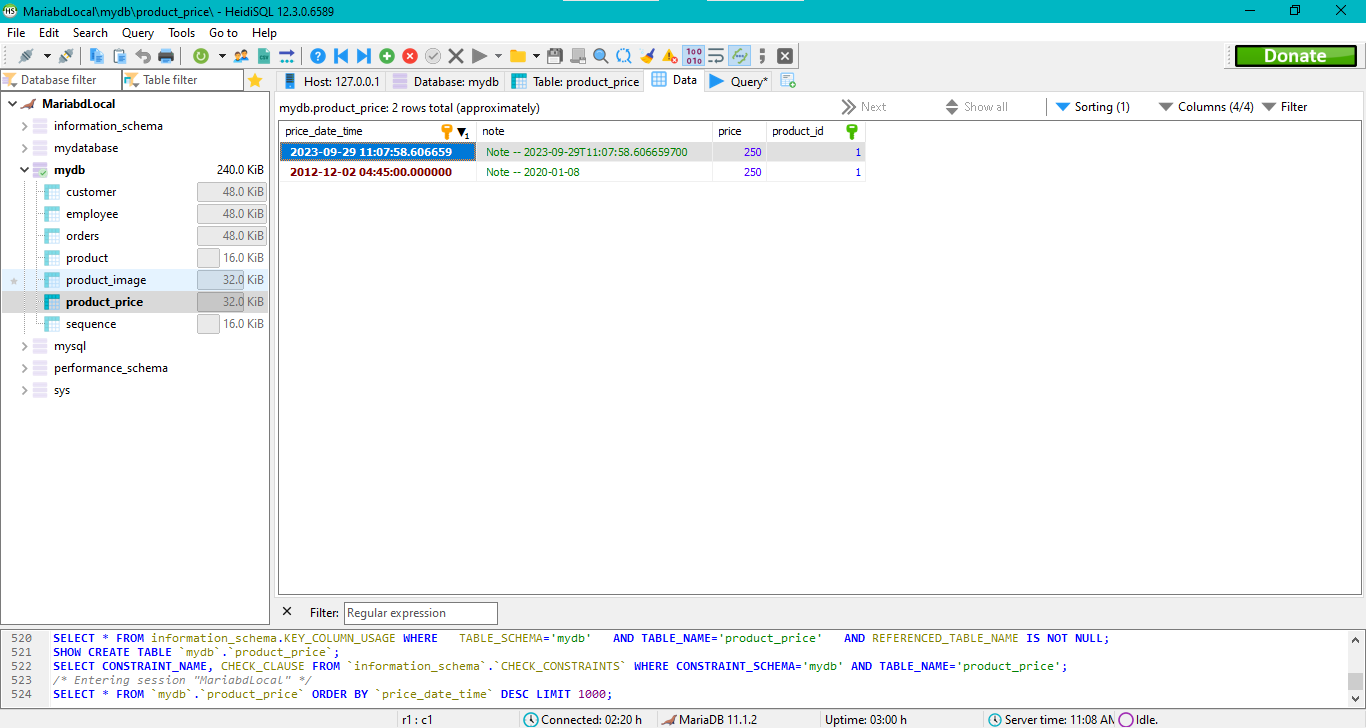
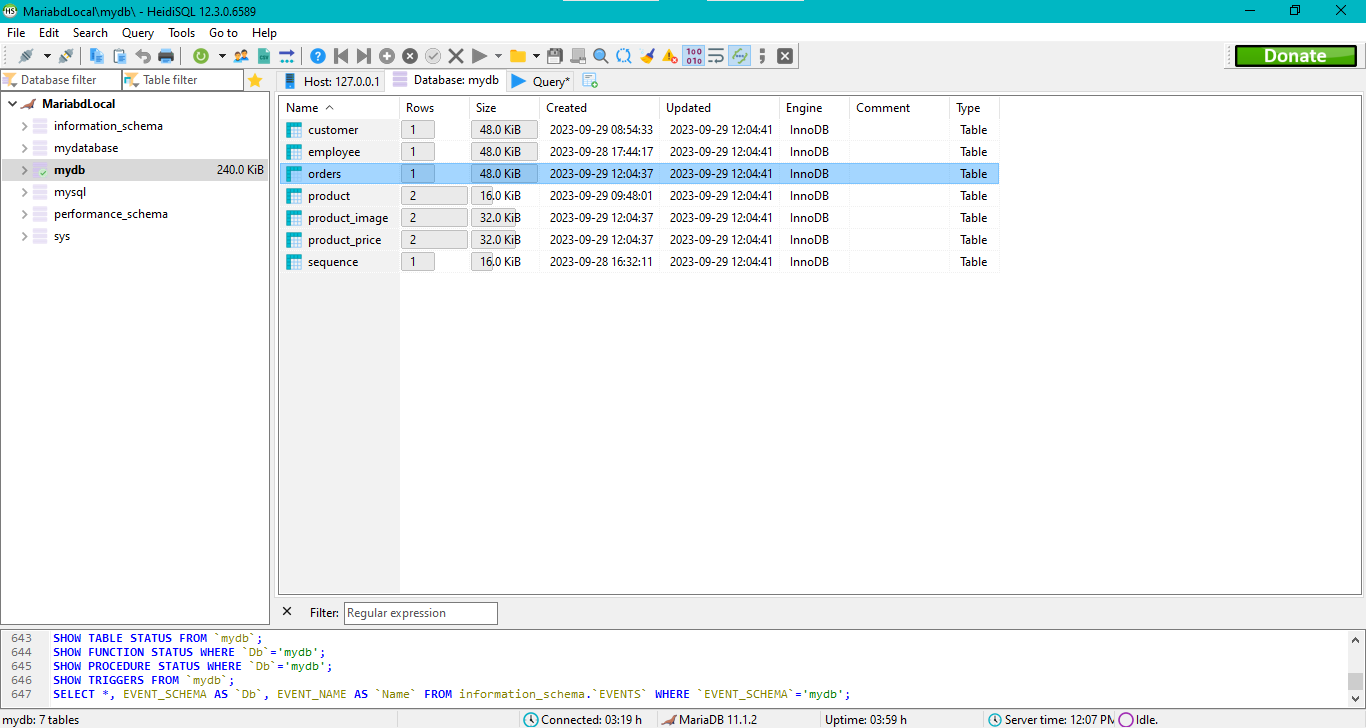
add JPA - Order -OrderDetail -Product  - data err

diff --git a/week2_RestAPI/lab1-week2-rest-jpa-mariadb/src/main/java/vn/edu/iuh/fit/MainTextEntity.java b/week2_RestAPI/lab1-week2-rest-jpa-mariadb/src/main/java/vn/edu/iuh/fit/MainTextEntity.java
@@ -26,12 +26,12 @@ public class MainTextEntity {
         emp.setAddress("12 phan co ich");
         emp.setStatus(EmployeeStatus.IN_ACTIVE);
 
-//        Product pro1 = new Product();
-//        pro1.setName("Banh gao 1");
-//        pro1.setUnit("don vi 1");
-//        pro1.setDescription("Mo ta 1");
-//        pro1.setManufacturerName("NSX Banh VN");
-//        pro1.setStatus(ProductStatus.IN_ACTIVE);
+        Product pro1 = new Product();
+        pro1.setName("Banh gao 1");
+        pro1.setUnit("don vi 1");
+        pro1.setDescription("Mo ta 1");
+        pro1.setManufacturerName("NSX Banh VN");
+        pro1.setStatus(ProductStatus.IN_ACTIVE);
 
         Customer cus = new Customer();
         cus.setName("Tran binh");
@@ -52,10 +52,10 @@ public class MainTextEntity {
 
         // test JPA
         Product pro2 = new Product();
-        pro2.setName("Banh gao 1");
-        pro2.setUnit("don vi 1");
-        pro2.setDescription("Mo ta 1");
-        pro2.setManufacturerName("NSX Banh VN");
+        pro2.setName("Banh gao 2");
+        pro2.setUnit("don vi 2");
+        pro2.setDescription("Mo ta 2");
+        pro2.setManufacturerName("NSX Banh 2 VN");
         pro2.setStatus(ProductStatus.IN_ACTIVE);
         List<ProductImage> lst = new ArrayList<>();
         image.setProduct(pro2);
@@ -77,7 +77,7 @@ public class MainTextEntity {
         price.setNote("Note -- "+ date);
         price.setPriceDateTime(LocalDateTime.of(2012,12,02,4,45));
         price.setPrice(250);
-        price.setProduct(pro2);
+        price.setProduct(pro1);
 
         ProductPrice price2 = new ProductPrice();
         price2.setNote("Note -- "+ timeNow);
@@ -85,17 +85,28 @@ public class MainTextEntity {
         price2.setPrice(250);
         price2.setProduct(pro2);
 
+        // OrderDetail
+        OrderDetail orderDetail = new OrderDetail();
+        orderDetail.setOrder(order);
+        orderDetail.setProduct(pro1);
+        orderDetail.setNote(price.getNote());
+        orderDetail.setPrice(price.getPrice());
+        orderDetail.setQuantity(12);
+
 
         EntityManagerFactory entityManagerFactory = Persistence.createEntityManagerFactory("default");
         EntityManager entityManager = entityManagerFactory.createEntityManager();
 
         entityManager.getTransaction().begin();
-//        entityManager.persist(emp);
-//        entityManager.persist(cus);
-//        entityManager.persist(order);
+        entityManager.persist(emp);
+        entityManager.persist(cus);
+        entityManager.persist(pro1);
         entityManager.persist(pro2);
         entityManager.persist(price);
-        entityManager.persist(price2);
+        entityManager.persist(price2); //gia chuan
+
+        entityManager.persist(order);
+        entityManager.persist(orderDetail);
 
         entityManager.getTransaction().commit();
         entityManager.close();

diff --git a/week2_RestAPI/lab1-week2-rest-jpa-mariadb/src/main/java/vn/edu/iuh/fit/models/OrderDetail.java b/week2_RestAPI/lab1-week2-rest-jpa-mariadb/src/main/java/vn/edu/iuh/fit/models/OrderDetail.java
@@ -1,0 +1,100 @@
+package vn.edu.iuh.fit.models;
+
+import jakarta.persistence.*;
+
+/**
+ * order_detail (order_id, product_id, quantity, price, note)
+ */
+@Entity
+@Table(name = "order_detail")
+public class OrderDetail {
+    @EmbeddedId
+    private OrderDetailKey id;
+
+    @ManyToOne
+    @MapsId("order_id")
+    @JoinColumn(name = "order_id")
+    private Order order;
+    @ManyToOne
+    @MapsId("product_id")
+    @JoinColumn(name = "product_id")
+    private Product product;
+
+    @Column(name = "quantity", nullable = false)
+    private int quantity;
+    @Column(name = "price", nullable = false)
+    private double price;
+    @Column(name = "note")
+    private String note;
+
+    public OrderDetail(Order order, Product product, int quantity, double price, String note) {
+        this.order = order;
+        this.product = product;
+        this.quantity = quantity;
+        this.price = price;
+        this.note = note;
+    }
+
+    public OrderDetail() {
+    }
+
+    public Order getOrder() {
+        return order;
+    }
+
+    public void setOrder(Order order) {
+        this.order = order;
+    }
+
+    public Product getProduct() {
+        return product;
+    }
+
+    public void setProduct(Product product) {
+        this.product = product;
+    }
+
+    public OrderDetailKey getId() {
+        return id;
+    }
+
+    public void setId(OrderDetailKey id) {
+        this.id = id;
+    }
+
+    public int getQuantity() {
+        return quantity;
+    }
+
+    public void setQuantity(int quantity) {
+        this.quantity = quantity;
+    }
+
+    public double getPrice() {
+        return price;
+    }
+
+    public void setPrice(double price) {
+        this.price = price;
+    }
+
+    public String getNote() {
+        return note;
+    }
+
+    public void setNote(String note) {
+        this.note = note;
+    }
+
+    @Override
+    public String toString() {
+        return "OrderDetail{" +
+                "id=" + id +
+                ", order=" + order +
+                ", product=" + product +
+                ", quantity=" + quantity +
+                ", price=" + price +
+                ", note='" + note + '\'' +
+                '}';
+    }
+}

diff --git a/week2_RestAPI/lab1-week2-rest-jpa-mariadb/src/main/java/vn/edu/iuh/fit/models/Order.java b/week2_RestAPI/lab1-week2-rest-jpa-mariadb/src/main/java/vn/edu/iuh/fit/models/Order.java
@@ -3,6 +3,7 @@ package vn.edu.iuh.fit.models;
 import jakarta.persistence.*;
 
 import java.time.LocalDate;
+import java.util.List;
 
 /**
  * orders (order_id, order_date, emp_id, cust_id)
@@ -26,6 +27,11 @@ public class Order {
     @ManyToOne
     @JoinColumn(name = "cust_id", nullable = false)
     private Customer customer;
+
+//    @ManyToMany
+//    @JoinTable(name = "order_detail", joinColumns = @JoinColumn(name = "order_id"),
+//        inverseJoinColumns =@JoinColumn(name = "product_id") )
+//    private List<Product> lstProduct;
 
     public Employee getEmployee() {
         return employee;

diff --git a/week2_RestAPI/lab1-week2-rest-jpa-mariadb/src/main/java/vn/edu/iuh/fit/models/OrderDetailKey.java b/week2_RestAPI/lab1-week2-rest-jpa-mariadb/src/main/java/vn/edu/iuh/fit/models/OrderDetailKey.java
@@ -1,0 +1,16 @@
+package vn.edu.iuh.fit.models;
+
+import jakarta.persistence.Column;
+import jakarta.persistence.Embeddable;
+
+import java.io.Serializable;
+
+@Embeddable
+public class OrderDetailKey implements Serializable {
+    @Column(name = "order_id")
+    private long orderId;
+
+    @Column(name = "product_id")
+    private long productId;
+
+}

diff --git a/week2_RestAPI/lab1-week2-rest-jpa-mariadb/src/main/java/vn/edu/iuh/fit/models/Product.java b/week2_RestAPI/lab1-week2-rest-jpa-mariadb/src/main/java/vn/edu/iuh/fit/models/Product.java
@@ -37,6 +37,10 @@ public class Product {
     @OneToMany(mappedBy = "product",cascade = CascadeType.PERSIST)
     private List<ProductPrice> productPrices;
 
+//    @ManyToMany(mappedBy = "order_detail")
+//    private List<Order> lstOrder;
+
+
     public List<ProductImage> getProductImages() {
         return productImages;
     }
